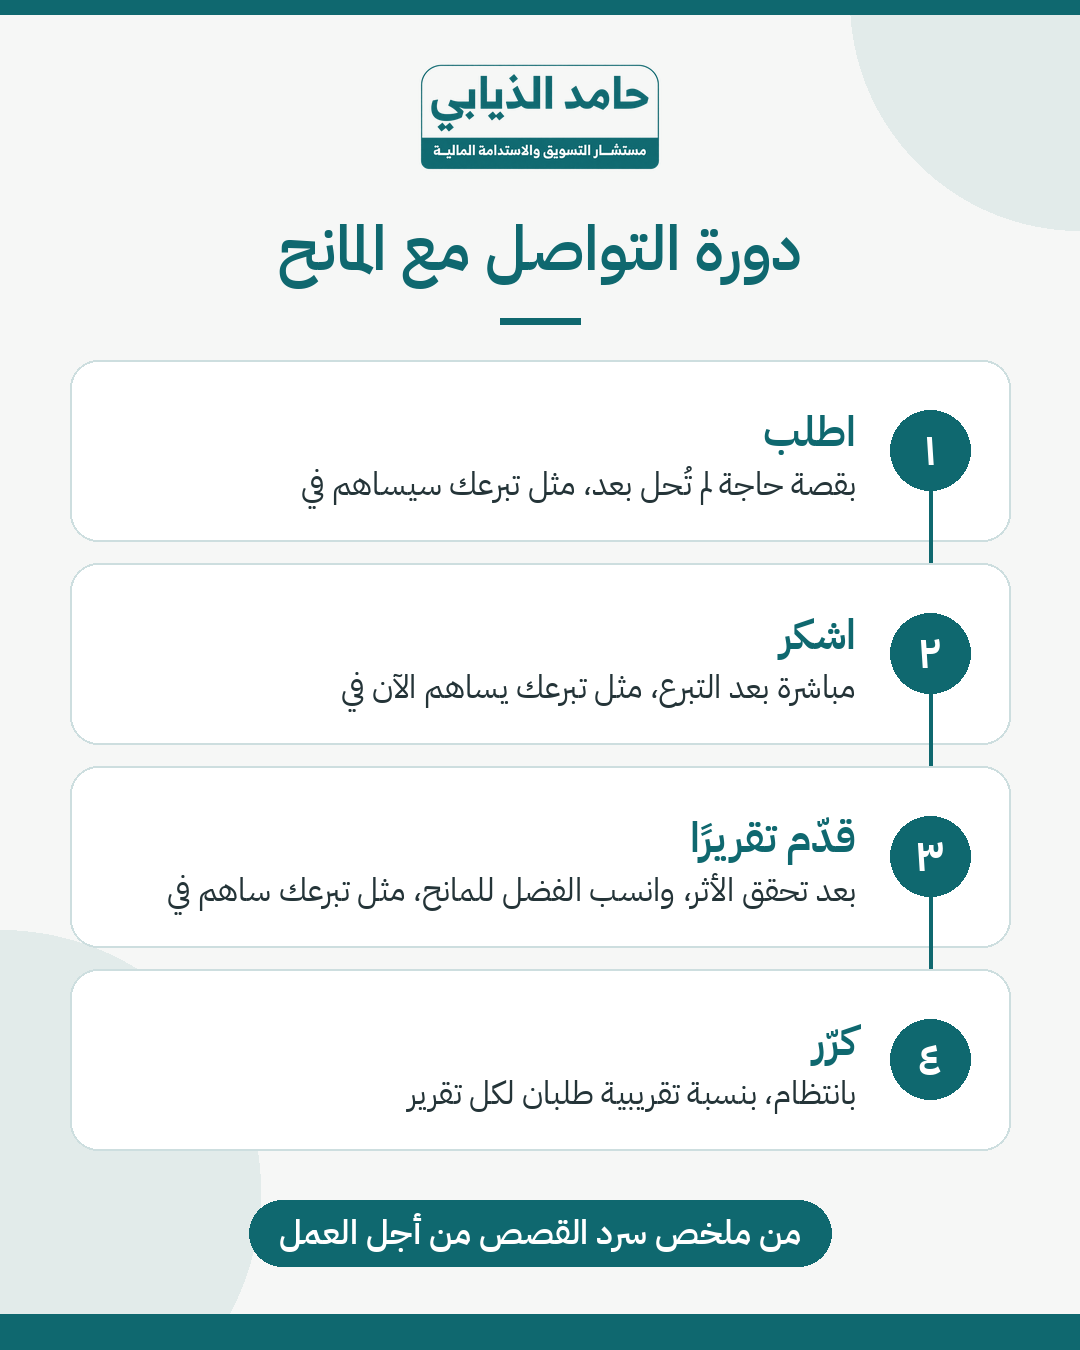
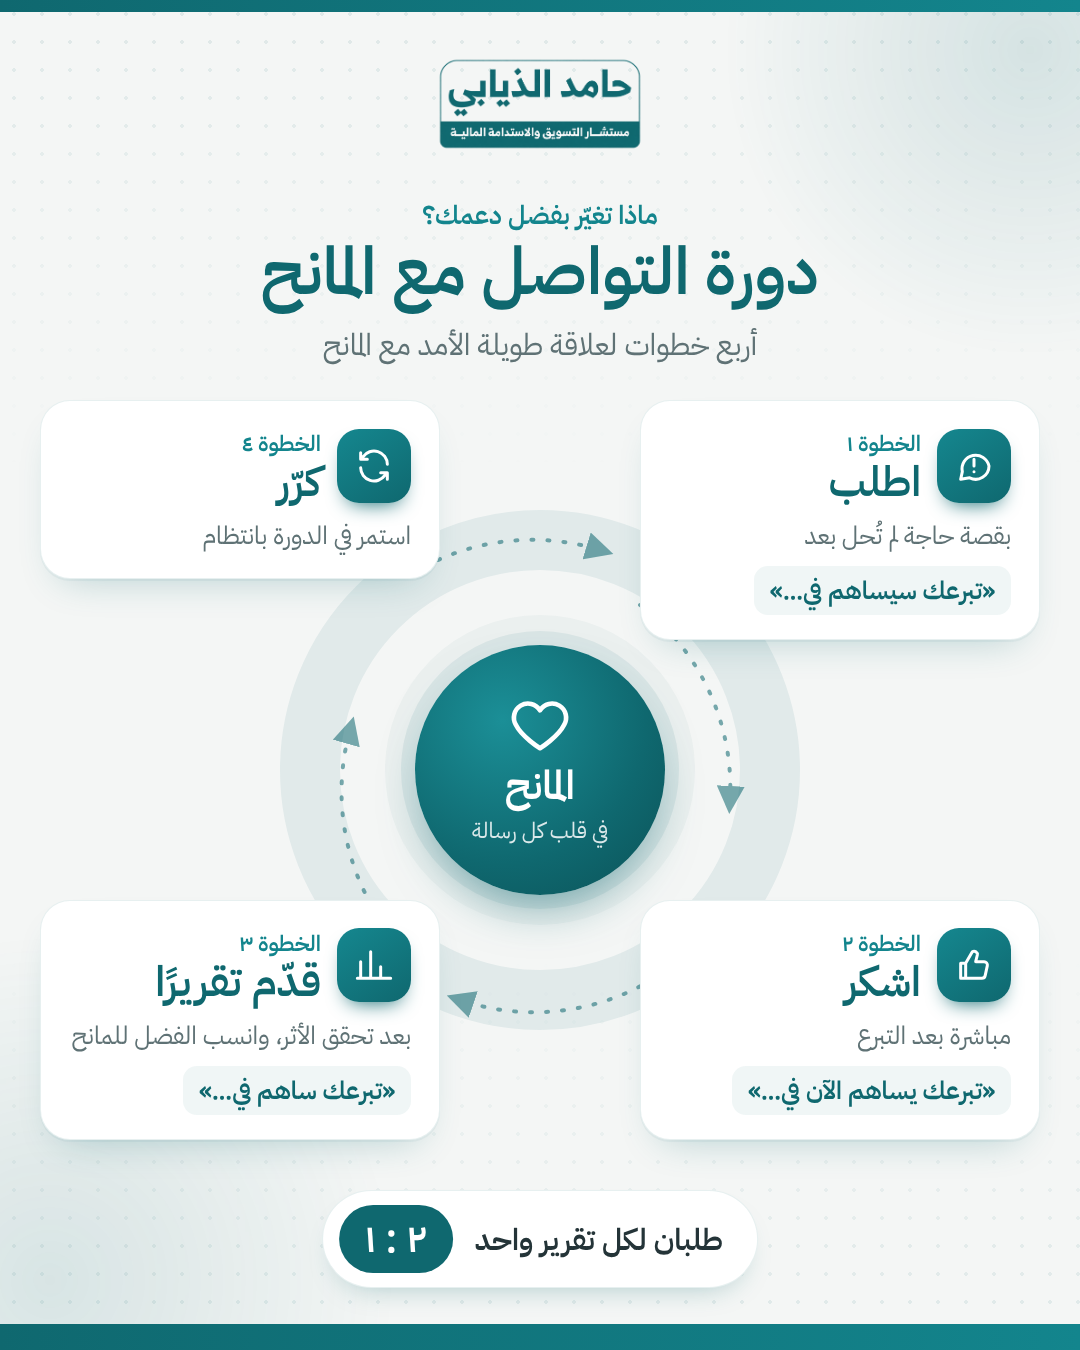
انفوجرافيك احترافي لتغريدة 26 أكتوبر بلا اسم المصدر؛ التصميم بـHTML وrender_html.js بدل البطاقات النصية
Claude-Session: https://claude.ai/code/session_01GnxYQhs5QNtA5qyC16gtt2

diff --git a/agent/designs/2026-10-26-cycle.html b/agent/designs/2026-10-26-cycle.html
@@ -1,0 +1,63 @@
+<!doctype html><html dir="rtl" lang="ar"><head><meta charset="utf-8"><style>
+@font-face{font-family:Ar;src:url(../brand/plex-600.ttf);font-weight:600}
+@font-face{font-family:Ar;src:url(../brand/plex-400.ttf);font-weight:400}
+@font-face{font-family:La;src:url(../brand/plex-latin-400.ttf)}
+:root{--t:#0F686F;--t2:#13858d;--ink:#243438;--mut:#5f7275;--bg:#f4f6f5}
+*{margin:0;box-sizing:border-box}html{width:1080px;height:1350px;overflow:hidden}
+body{width:1080px;height:1350px;overflow:clip;font-family:Ar,La;background:var(--bg);overflow:hidden;position:relative;color:var(--ink)}
+.blob{position:absolute;border-radius:50%;filter:blur(2px)}
+.b1{width:620px;height:620px;right:-260px;top:-260px;background:radial-gradient(circle,#0F686F22,#0F686F00 70%)}
+.b2{width:700px;height:700px;left:-300px;bottom:-280px;background:radial-gradient(circle,#0F686F1f,#0F686F00 70%)}
+.dots{position:absolute;inset:0;background-image:radial-gradient(#0F686F18 1.6px,transparent 1.6px);background-size:28px 28px;mask-image:linear-gradient(180deg,#000 0,#0000 35%,#0000 70%,#000)}
+.top{position:absolute;top:0;left:0;right:0;height:12px;background:linear-gradient(90deg,var(--t),var(--t2))}
+.logo{position:absolute;top:56px;left:50%;transform:translateX(-50%);width:210px}
+.eyebrow{position:absolute;top:196px;width:100%;text-align:center;font-weight:600;font-size:26px;color:var(--t2);letter-spacing:0}
+.title{position:absolute;top:232px;width:100%;text-align:center;font-weight:600;font-size:66px;color:var(--t);line-height:1.2}
+.sub{position:absolute;top:322px;width:100%;text-align:center;font-size:30px;color:var(--mut)}
+.stage{position:absolute;top:400px;left:40px;width:1000px;height:740px}
+svg.ring{position:absolute;inset:0}
+.center{position:absolute;left:50%;top:50%;width:250px;height:250px;margin:-125px 0 0 -125px;border-radius:50%;
+ background:radial-gradient(circle at 35% 30%,#1b8f97,#0F686F 60%,#0b5257);box-shadow:0 24px 50px -18px #0F686F99,0 0 0 14px #0F686F14,0 0 0 30px #0F686F0a;
+ display:flex;flex-direction:column;align-items:center;justify-content:center;color:#fff;text-align:center}
+.center svg{width:62px;height:62px;margin-bottom:8px}
+.center b{font-size:40px;font-weight:600;line-height:1.1}.center span{font-size:22px;opacity:.85;margin-top:6px}
+.node{position:absolute;width:400px;background:#fff;border-radius:30px;padding:26px 28px 24px;box-shadow:0 18px 40px -22px #0F686F55,0 2px 0 #0F686F0d;border:1.5px solid #0F686F1a}
+.node .h{display:flex;align-items:center;gap:16px}
+.ic{width:74px;height:74px;border-radius:22px;background:linear-gradient(145deg,#15878f,#0F686F);display:flex;align-items:center;justify-content:center;flex:none;box-shadow:0 10px 20px -10px #0F686F}
+.ic svg{width:40px;height:40px}
+.n{font-family:Ar;font-size:22px;color:var(--t2);font-weight:600}
+.nm{font-size:42px;font-weight:600;color:var(--t);line-height:1.05}
+.d{font-size:25px;color:var(--mut);margin-top:14px;line-height:1.45}
+.q{display:inline-block;margin-top:12px;background:#0F686F10;color:var(--t);border-radius:14px;padding:6px 16px;font-size:25px;font-weight:600}
+.n1{right:0;top:0}.n2{right:0;bottom:0}.n3{left:0;bottom:0}.n4{left:0;top:0}
+.stat{position:absolute;bottom:62px;left:50%;transform:translateX(-50%);display:flex;align-items:center;gap:22px;background:#fff;border-radius:999px;padding:14px 34px 14px 16px;box-shadow:0 14px 30px -18px #0F686F66;border:1.5px solid #0F686F1a;white-space:nowrap}
+.stat .r{background:var(--t);color:#fff;border-radius:999px;padding:4px 26px;font-size:40px;font-weight:600;font-family:Ar,La}
+.stat .t{font-size:30px;font-weight:600;color:var(--ink)}
+.bot{position:absolute;bottom:0;left:0;right:0;height:26px;background:linear-gradient(90deg,var(--t),var(--t2))}
+</style></head><body>
+<div class="blob b1"></div><div class="blob b2"></div><div class="dots"></div><div class="top"></div>
+<img class="logo" src="../brand/old_logo.png">
+<div class="eyebrow">ماذا تغيّر بفضل دعمك؟</div>
+<div class="title">دورة التواصل مع المانح</div>
+<div class="sub">أربع خطوات لعلاقة طويلة الأمد مع المانح</div>
+<div class="stage">
+<svg class="ring" viewBox="0 0 1000 740"><defs><marker id="a" viewBox="0 0 10 10" refX="5" refY="5" markerWidth="7" markerHeight="7" orient="auto"><path d="M0 0L10 5L0 10z" fill="#0F686F"/></marker></defs>
+<g fill="none" stroke="#0F686F" stroke-width="4" stroke-linecap="round" stroke-dasharray="2 14" opacity=".55">
+<path d="M600 205 A230 230 0 0 1 690 400" marker-end="url(#a)"/>
+<path d="M640 560 A230 230 0 0 1 420 600" marker-end="url(#a)"/>
+<path d="M360 545 A230 230 0 0 1 310 330" marker-end="url(#a)"/>
+<path d="M370 175 A230 230 0 0 1 560 150" marker-end="url(#a)"/></g>
+<circle cx="500" cy="370" r="230" fill="none" stroke="#0F686F" stroke-opacity=".08" stroke-width="60"/></svg>
+<div class="center"><svg viewBox="0 0 24 24" fill="none" stroke="#fff" stroke-width="1.8" stroke-linecap="round" stroke-linejoin="round"><path d="M12 21s-7-4.4-9.3-9A5.2 5.2 0 0 1 12 6.3 5.2 5.2 0 0 1 21.3 12C19 16.6 12 21 12 21z"/></svg><b>المانح</b><span>في قلب كل رسالة</span></div>
+<div class="node n1"><div class="h"><div class="ic"><svg viewBox="0 0 24 24" fill="none" stroke="#fff" stroke-width="1.8" stroke-linecap="round" stroke-linejoin="round"><path d="M21 12a8 8 0 0 1-11.6 7.1L4 20l1-4.6A8 8 0 1 1 21 12z"/><path d="M12 8v4M12 15.5v.01"/></svg></div><div><div class="n">الخطوة ١</div><div class="nm">اطلب</div></div></div>
+<div class="d">بقصة حاجة لم تُحل بعد</div><div class="q">«تبرعك سيساهم في…»</div></div>
+<div class="node n2"><div class="h"><div class="ic"><svg viewBox="0 0 24 24" fill="none" stroke="#fff" stroke-width="1.8" stroke-linecap="round" stroke-linejoin="round"><path d="M7 11v9H4v-9zM7 11l4-7a2 2 0 0 1 3 2l-1 4h5a2 2 0 0 1 2 2.4l-1.3 6A2 2 0 0 1 16.7 20H7"/></svg></div><div><div class="n">الخطوة ٢</div><div class="nm">اشكر</div></div></div>
+<div class="d">مباشرة بعد التبرع</div><div class="q">«تبرعك يساهم الآن في…»</div></div>
+<div class="node n3"><div class="h"><div class="ic"><svg viewBox="0 0 24 24" fill="none" stroke="#fff" stroke-width="1.8" stroke-linecap="round" stroke-linejoin="round"><path d="M4 20V10M10 20V4M16 20v-7M22 20H2"/></svg></div><div><div class="n">الخطوة ٣</div><div class="nm">قدّم تقريرًا</div></div></div>
+<div class="d">بعد تحقق الأثر، وانسب الفضل للمانح</div><div class="q">«تبرعك ساهم في…»</div></div>
+<div class="node n4"><div class="h"><div class="ic"><svg viewBox="0 0 24 24" fill="none" stroke="#fff" stroke-width="1.8" stroke-linecap="round" stroke-linejoin="round"><path d="M20 11a8 8 0 0 0-14.6-4.5M4 4v4h4M4 13a8 8 0 0 0 14.6 4.5M20 20v-4h-4"/></svg></div><div><div class="n">الخطوة ٤</div><div class="nm">كرّر</div></div></div>
+<div class="d">استمر في الدورة بانتظام</div></div>
+</div>
+<div class="stat"><span class="t">طلبان لكل تقرير واحد</span><span class="r">٢ : ١</span></div>
+<div class="bot"></div>
+</body></html>

diff --git a/agent/tools/render_html.js b/agent/tools/render_html.js
@@ -1,0 +1,9 @@
+// يحوّل تصميم HTML (agent/designs/*.html) إلى صورة PNG بمقاس 1080×1350
+// node agent/tools/render_html.js agent/designs/<file>.html img/<out>.png [width] [height]
+const {chromium} = require('playwright'); const path = require('path');
+(async () => {
+  const [src, out, w = 1080, h = 1350] = process.argv.slice(2);
+  const b = await chromium.launch(); const p = await b.newPage({viewport: {width: +w, height: +h}});
+  await p.goto('file://' + path.resolve(src)); await p.evaluate(() => document.fonts.ready); await p.waitForTimeout(300);
+  await p.screenshot({path: out}); await b.close();
+})();

diff --git a/agent/AGENT.md b/agent/AGENT.md
@@ -23,6 +23,10 @@
 - إكس: مختصر وحيوي. لينكدإن: شبه رسمي ومختلف عن نص إكس، لا نسخة منه.
 - لينكدإن: لا بطاقة نصية بدائية. إن صمّمت له فانفوجرافيك احترافي مناسب للموضوع، بلا نص طويل، يُرفق غلافًا مع المنشور النصي.
 - نوّع التصاميم: انفوجرافيك احترافي حين يحوي المحتوى تعدادًا أو خطوات أو أرقامًا موثقة أو مقارنة، وموشن جرافيك أحيانًا. لا تكرر الشكل نفسه كل يوم.
+- التصميم يجب أن يكون احترافيًا وفيه روح (رفضت تغريد البطاقات النصية البسيطة): صمّمه HTML/CSS في agent/designs/<التاريخ>-<المعرف>.html
+  (أيقونات SVG، تدرجات وظلال خفيفة، تكوين بصري يعبّر عن الفكرة كدورة أو مراحل أو مقارنة، رقم بارز إن وُجد)، والخطوط ../brand/plex-*.ttf،
+  ثم حوّله: `node agent/tools/render_html.js agent/designs/<الملف>.html img/<الملف>.png`. المرجع: agent/designs/2026-10-26-cycle.html.
+  نص قليل في التصميم، ولا تكرر العبارة نفسها فيه.
 - الوسوم: وسوم رائجة ومناسبة للموضوع (ابحث عن الرائج في السعودية يومها)، ولا تستخدم وسمًا رائجًا لا علاقة له بالمحتوى.
 - رابط المصدر: أضف رابط المصدر من منصة درب (darb-hub.com) في النص، ومن ١١ نوفمبر رابطه في موقعنا hamedalthiabi.com. لا تخترع رابطًا: افتح الرابط وتأكد منه، وإن لم تجده فاسأل تغريد.
   روابط درب المعتمدة: حقل `darb_url` في agent/sources.json (وعمود «رابط درب» في فهرس المصادر)، وقائمة إصدارات درب كاملة في agent/sources/darb.md.
@@ -39,7 +43,7 @@
 - اختم كل منشور، قبل الوسوم، بسطر تشويقي يدعو لقراءة المصدر ويذكر اسمه، مبني على شيء وارد فيه فعلًا، مثل:
   «وفي دليل «التسويق للمنظمات غير الربحية» ثمانية عناصر، قد يكون غياب أحدها سبب تعثّر حملتك.»
   ممنوع (بطلب تغريد): سطر «المصدر: …» وذكر «أ. حامد الذيابي» في نص المنشور، لأن الحسابات حسابات أ. حامد نفسه.
-- واكتب المصدر في وسم التصميم مثل «من نموذج رحلة المتبرع» (الخط لا يدعم « » : . فتحذفها الأداة تلقائيًا)، وفي آخر شريحة من الموشن.
+- لا تكتب «من ملخص/من دليل …» ولا اسم المصدر في التصميم ولا الموشن (بطلب تغريد ٢٦ أكتوبر)؛ يكفي ذكره ورابطه في النص.
 - سجّل معرّف المصدر في حقل `source` في queue.json. لا تكرر المصدر نفسه في يومين متتاليين على المنصة نفسها.
 - قبل ١١ نوفمبر لا تذكر «الموقع»، وضع بعد السطر التشويقي رابط المصدر من درب (بطلب تغريد ٢٦ أكتوبر).
 - استثناء: «سلسلة الأربعاء» على لينكدإن (agent/wednesday_series.py) من كتابة أ. حامد نفسه بصيغة المتكلم، فلا يُضاف لها سطر مصدر
@@ -66,13 +70,11 @@
 3. إن وُجدت منشورات اليوم مسبقًا في queue.json (جهّزتها تغريد أو Claude)، فدقّقها فقط ولا تكتب بديلًا عنها. وإلا فلكل منشور في صفوف اليوم:
    - اكتب النص بنفسك على موضوع الصف، مهنيًا ومختصرًا، بلا أرقام أو إحصاءات غير موثقة
      (إكس ≤ ٢٨٠ حرفًا، لينكدإن أطول ومهني ينتهي بسؤال أو دعوة، تيك توك وصف قصير ووسوم).
-   - صمّم الصورة بالهوية الصحيحة للتاريخ:
-     حتى ١٠ نوفمبر: `python3 agent/tools/old_identity.py card "العنوان" "الوسم" img/<التاريخ>-<المعرف>.png`
-     (استخدم | لكسر السطر في العنوان).
+   - صمّم الصورة بالهوية الصحيحة للتاريخ بتصميم HTML احترافي (انظر «أسلوب المحتوى حسب المنصة»)، لا ببطاقة old_identity.py card
+     ولا card.py (بطاقات نصية بسيطة رفضتها تغريد). حتى ١٠ نوفمبر: الفيروزي #0F686F وold_logo.png؛ ومن ١١ نوفمبر: الكحلي والنحاسي وlogo_navy.png.
    - تيك توك (قاعدة صارمة بطلب تغريد): ممنوع موشن الشرائح النصية (old_identity.py motion) لتيك توك، فقد رُفض لضعفه.
      انشر لتيك توك من ملف الفيديوهات في tiktok/ (01-…، 02-…) فقط: فيديو لم يُنشر من قبل على تيك توك، مع وصف قصير من موضوعه.
      إن لم يبقَ فيديو غير منشور، فلا تنشر على تيك توك ذلك اليوم واذكر في الملخص أن الفيديوهات نفدت.
-     من ١١ نوفمبر: `agent/tools/card.py "العنوان" "الوسم" img/<التاريخ>-<المعرف>.png`.
    - افتح كل صورة صمّمتها وانظر إليها قبل اعتمادها (تقطيع الأسطر، الوضوح، الهوية).
    - فيديوهات تيك توك: من إنتاجنا → شعار حامد الكحلي أعلى اليسار فقط (`style2.logo_only_tl`)،
      وليست من إنتاجنا → الشعار في زاوية لا تغطي شعار الجهة (`vidproc.logo_only`) مع ذكر المصدر.
